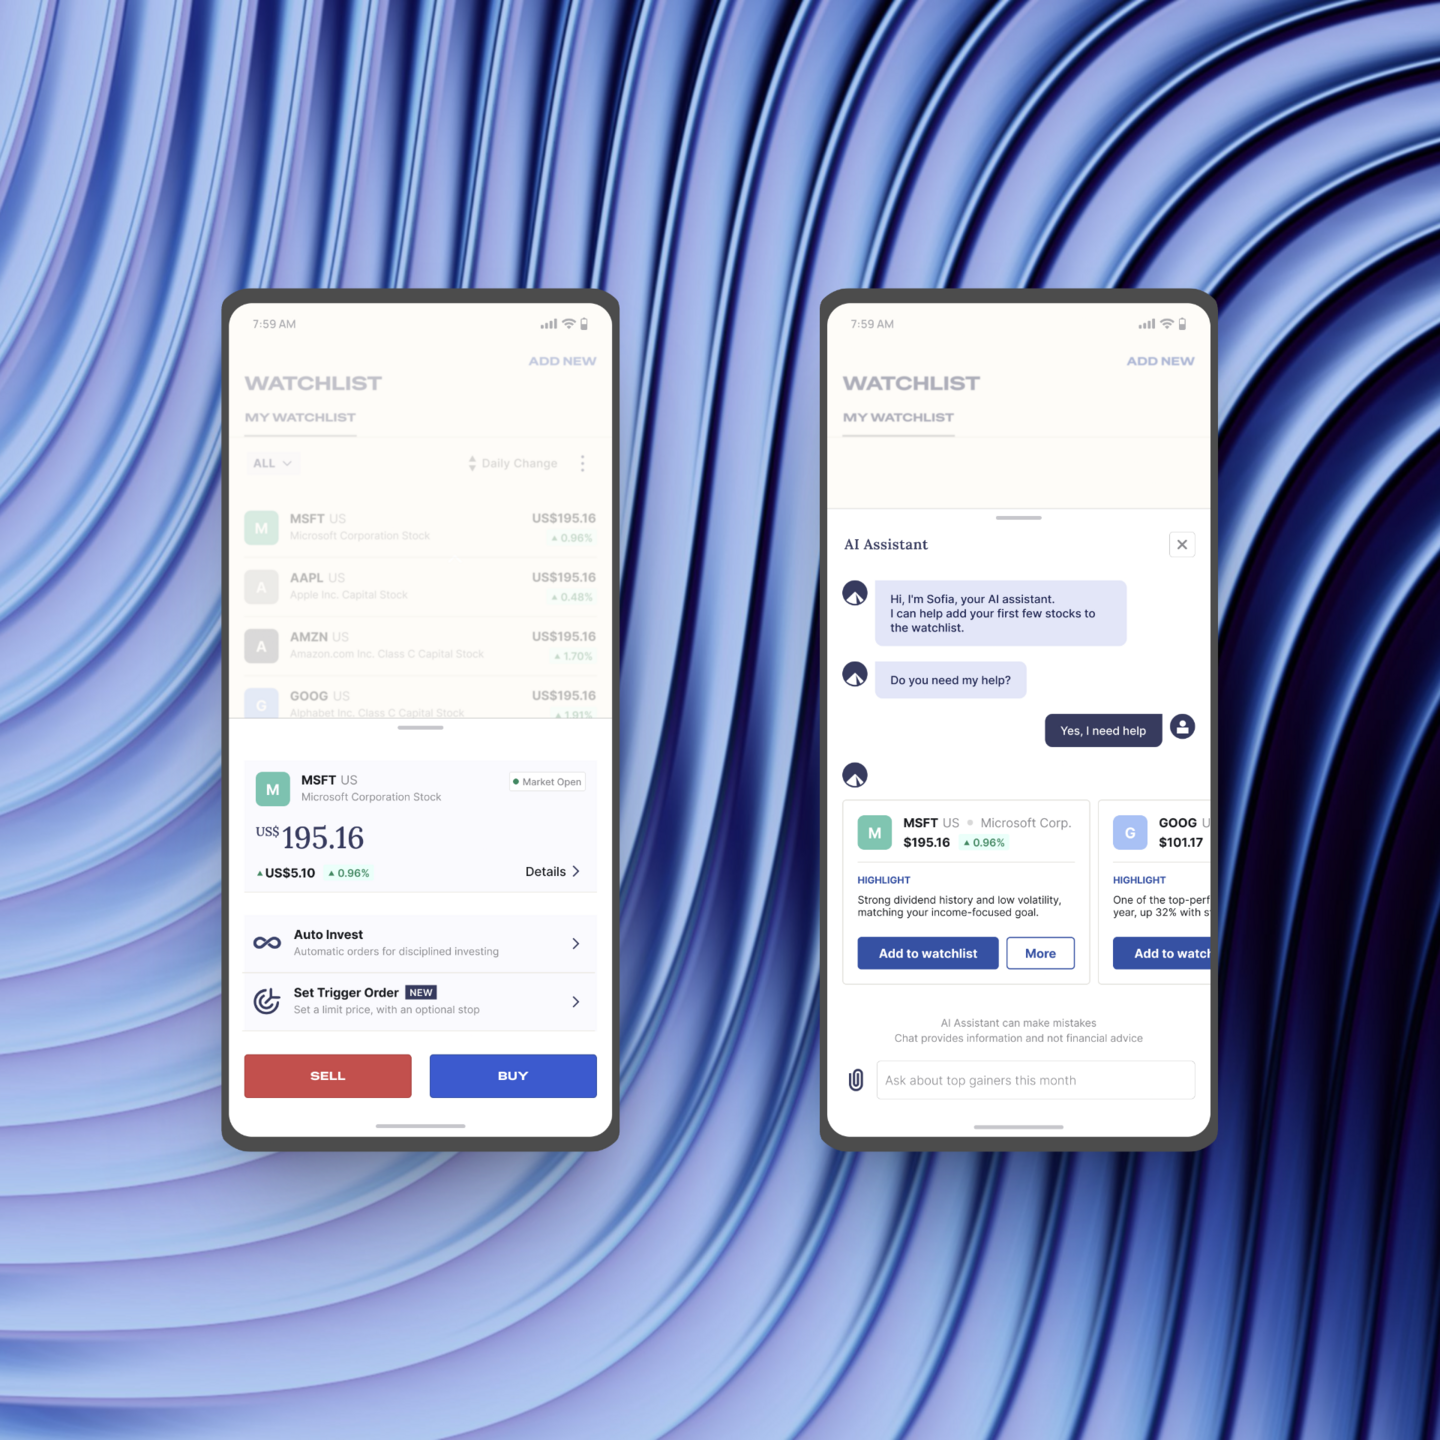
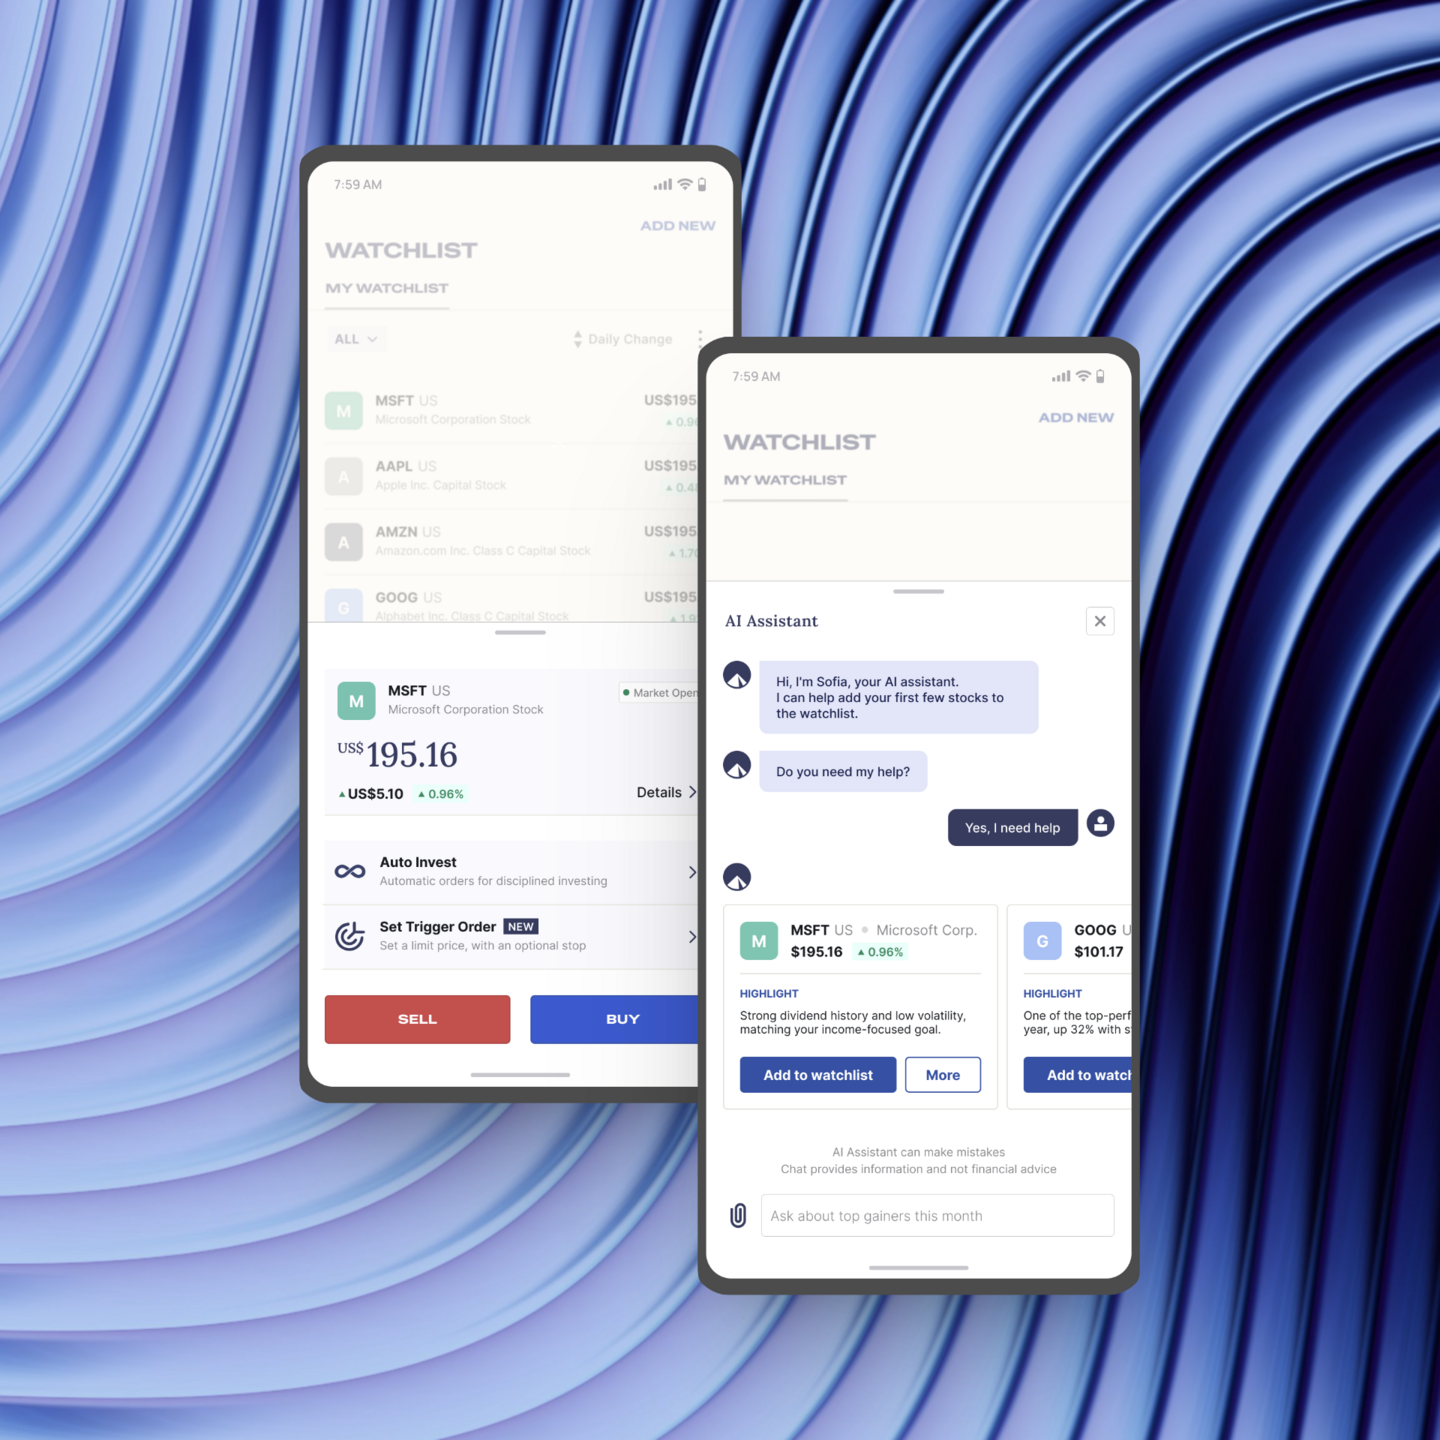
Update Syfe image; Latest tag matches Hero Project label style, top-left

diff --git a/src/App.css b/src/App.css
@@ -908,21 +908,22 @@ body {
   -webkit-text-stroke: 0.5px rgba(26, 25, 23, 0.55);
 }
 
-/* "Latest" pill — top-right, purple accent to match the Syfe card's fill */
+/* "Latest" pill — same theme and placement (top-left) as the "Hero Project"
+   label: cream fill, dark border + text, hard offset shadow. */
 .cs-stack-card__latest-tag {
   position: absolute;
   top: 14px;
-  right: 14px;
+  left: 14px;
   z-index: 2;
   padding: 6px 13px;
   border-radius: 999px;
   border: 2px solid var(--text);
   font-size: 9.5px;
-  font-weight: 700;
+  font-weight: 600;
   letter-spacing: 0.08em;
   text-transform: uppercase;
-  color: #fff;
-  background: var(--accent);
+  color: var(--text);
+  background: #FFF9EC;
   box-shadow: 3px 3px 0 rgba(26, 25, 23, 0.18);
 }
 
